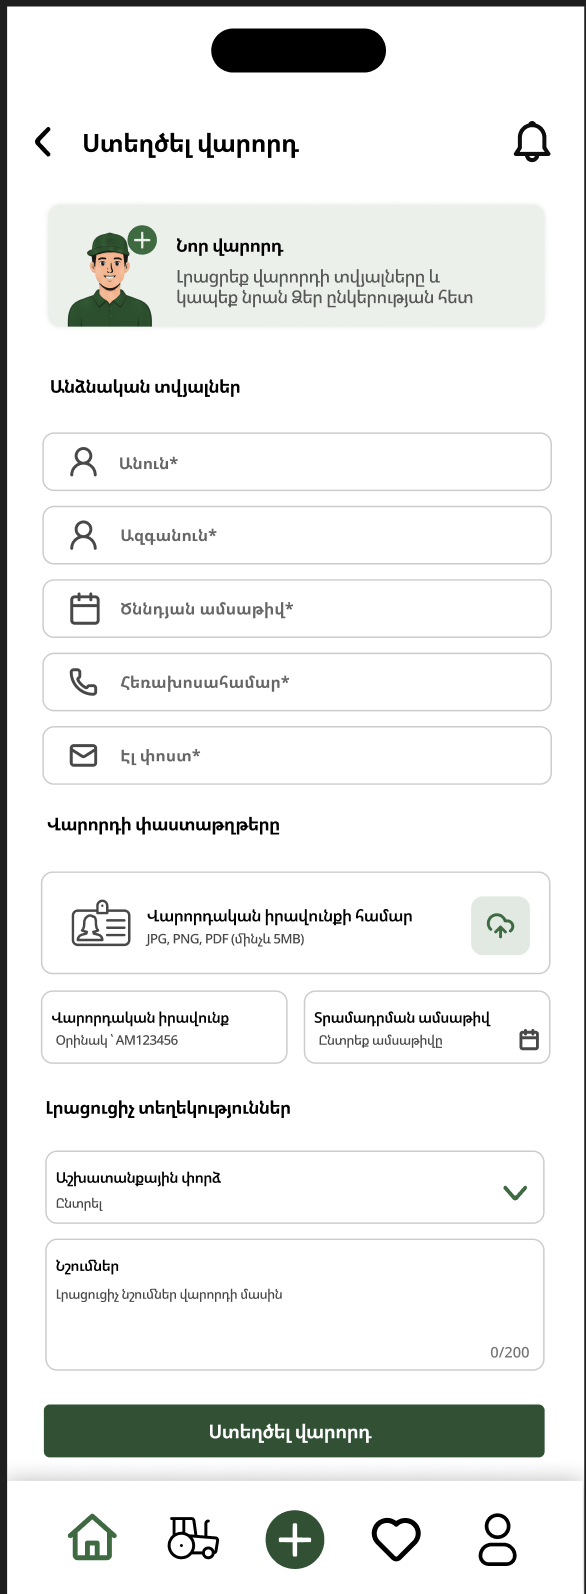
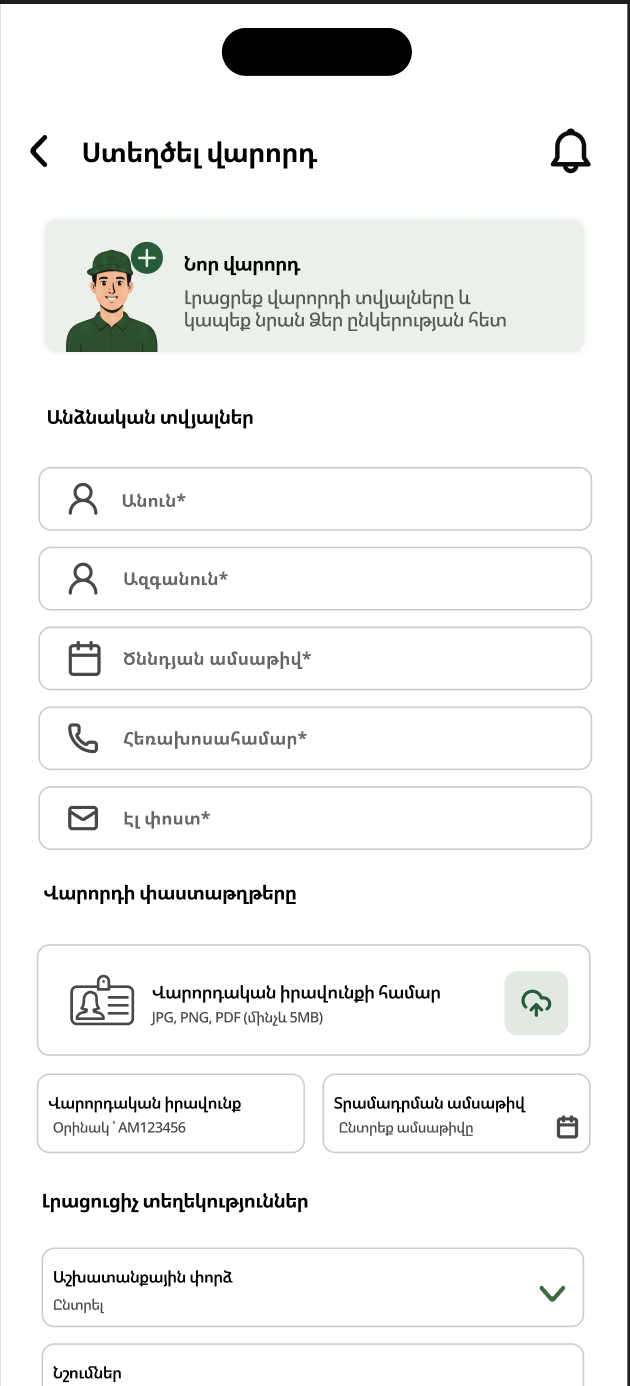
change screens for hayshen

diff --git a/src/app/components/HayShenEquipmentPlatform/HayShenEquipmentPlatform.tsx b/src/app/components/HayShenEquipmentPlatform/HayShenEquipmentPlatform.tsx
@@ -50,74 +50,84 @@ const ECOSYSTEM_APPS = [
 
 const HAYSHEN_SCREENS = [
   {
+    label: 'Auth',
+    title: 'Company sign-in',
+    caption:
+      'Branded login screen for company access with email, password, and social sign-in.',
+    image: HayShenAuth,
+    alt: 'HayShen company sign in screen',
+  },
+  {
     label: 'Client Home',
     title: 'Equipment marketplace',
-    caption: 'Category browsing, search, recent orders, favorites, profile, and request history.',
+    caption:
+      'Category browsing, search, recent orders, favorites, profile, and request history.',
     image: HayShenClientHome,
     alt: 'HayShen client app home screen',
   },
   {
     label: 'Equipment',
     title: 'Machine detail page',
-    caption: 'Photos, rating, hourly price, technical specs, company profile, and order action.',
+    caption:
+      'Photos, rating, hourly price, technical specs, company profile, and order action.',
     image: HayShenEquipmentDetail,
     alt: 'HayShen equipment detail screen',
   },
   {
     label: 'Order',
     title: 'Order lifecycle',
-    caption: 'Step-by-step status from accepted request to machine dispatch, work, and completion.',
+    caption:
+      'Step-by-step status from accepted request to machine dispatch, work, and completion.',
     image: HayShenOrderTracking,
     alt: 'HayShen order tracking screen',
   },
   {
     label: 'Accepted',
     title: 'Accepted job status',
-    caption: 'A clear milestone screen with job progress, equipment, driver contact, and confirmation actions.',
+    caption:
+      'A clear milestone screen with job progress, equipment, driver contact, and confirmation actions.',
     image: HayShenOrderAccepted,
     alt: 'HayShen accepted job status screen',
   },
   {
     label: 'Summary',
     title: 'PDF-ready summary',
-    caption: 'A final order document with equipment, driver, dates, price, and downloadable PDF action.',
+    caption:
+      'A final order document with equipment, driver, dates, price, and downloadable PDF action.',
     image: HayShenOrderSummary,
     alt: 'HayShen completed order document summary screen',
   },
   {
     label: 'Driver',
     title: 'Incoming jobs',
-    caption: 'Driver dashboard for availability, new jobs, machine preview, price, reject, and accept actions.',
+    caption:
+      'Driver dashboard for availability, new jobs, machine preview, price, reject, and accept actions.',
     image: HayShenDriverOrders,
     alt: 'HayShen driver incoming job screen',
   },
   {
     label: 'Route',
     title: 'Navigation to work site',
-    caption: 'Map route, call action, send message, notes, worker details, equipment, and confirm arrival.',
+    caption:
+      'Map route, call action, send message, notes, worker details, equipment, and confirm arrival.',
     image: HayShenDriverRoute,
     alt: 'HayShen driver route and order details screen',
   },
   {
     label: 'Company Setup',
     title: 'Start company operations',
-    caption: 'Empty-state onboarding for adding drivers and equipment before taking orders.',
+    caption:
+      'Empty-state onboarding for adding drivers and equipment before taking orders.',
     image: HayShenCompanyEmpty,
     alt: 'HayShen company setup empty state screen',
   },
   {
     label: 'Company',
     title: 'Create driver flow',
-    caption: 'Company-side form for worker details, license upload, machine assignment, and notes.',
+    caption:
+      'Company-side form for worker details, license upload, machine assignment, and notes.',
     image: HayShenCreateDriver,
     alt: 'HayShen create driver form screen',
-  },
-  {
-    label: 'Auth',
-    title: 'Company sign-in',
-    caption: 'Branded login screen for company access with email, password, and social sign-in.',
-    image: HayShenAuth,
-    alt: 'HayShen company sign in screen',
   },
 ] as const;
 
@@ -127,7 +137,7 @@ export default function HayShenEquipmentPlatform() {
 
   const handlePrev = () => {
     setActiveIndex((current) =>
-      current === 0 ? HAYSHEN_SCREENS.length - 1 : current - 1,
+      current === 0 ? HAYSHEN_SCREENS.length - 1 : current - 1
     );
   };
 
